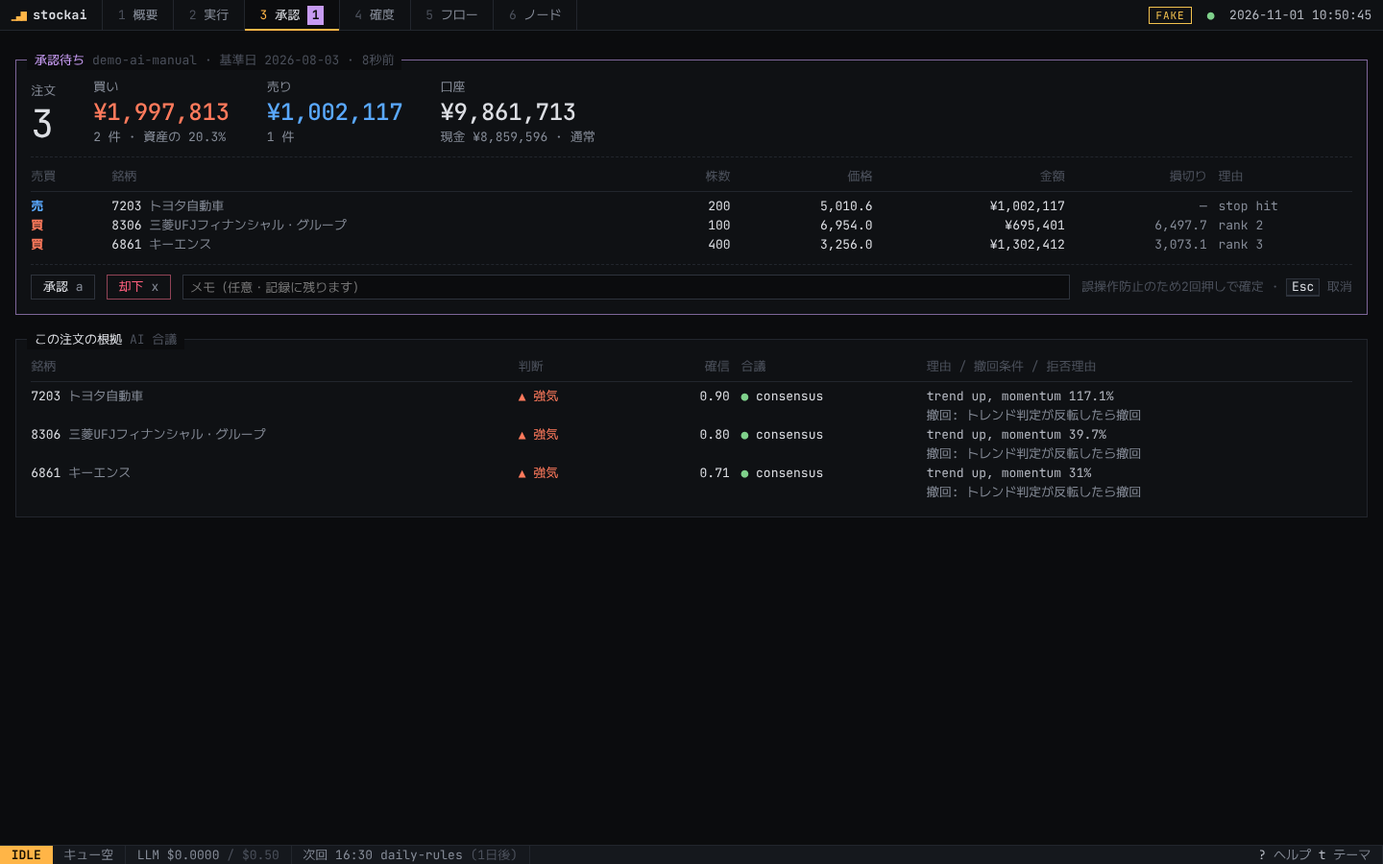
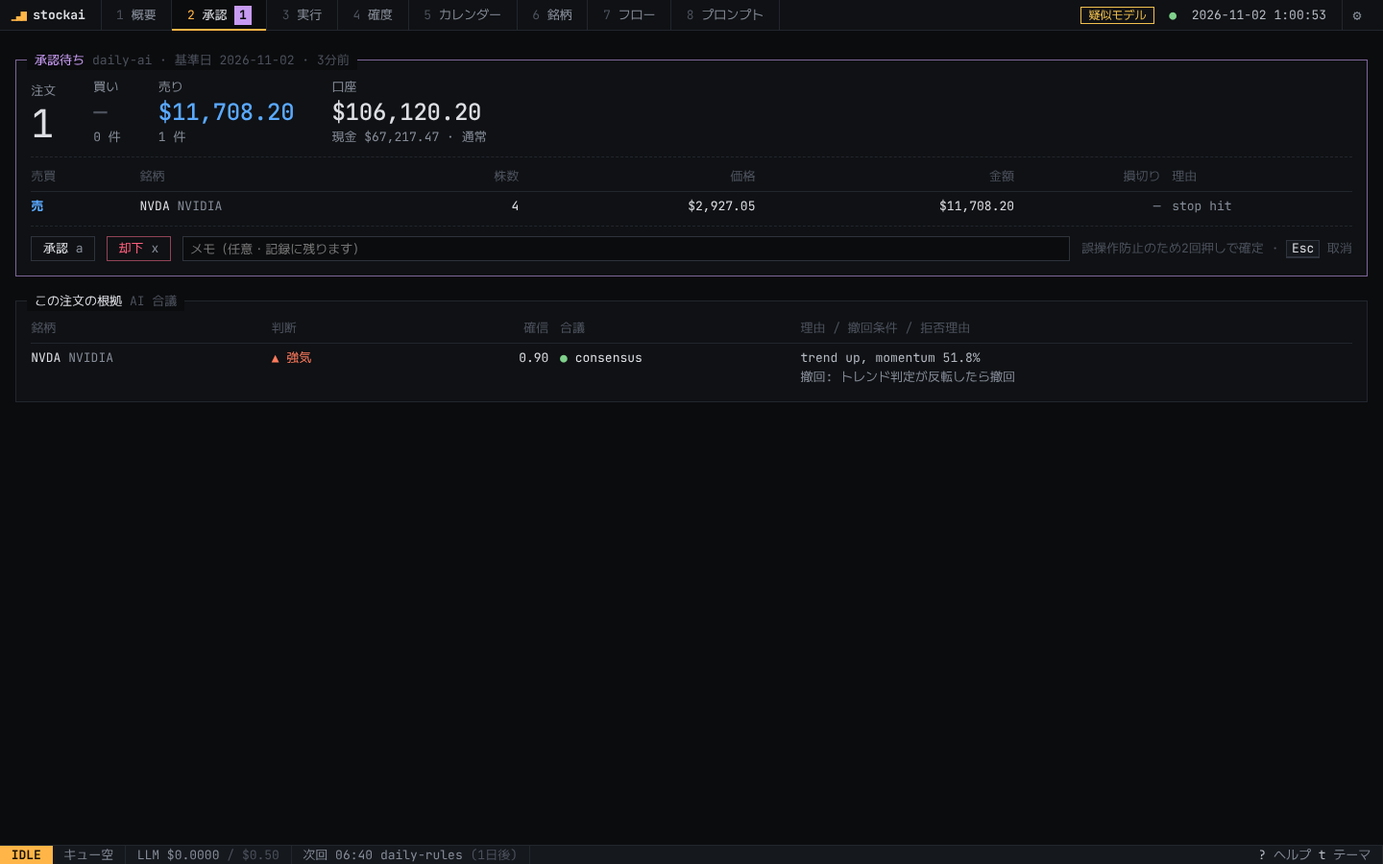
Polish the UI after an unslop audit (fixes a currency bug)
Audited every screen against the unslop skill's list of signs (by
Damir Sokolovsky, @heydamir, CC BY 4.0) and applied its polish mode:
the TUI direction (graphite surfaces, amber accent, monospace type,
status glyphs) stays; only what the audit found changes.

- Bug: proposed orders on the overview and approval screens were shown
  in yen for USD accounts, and share prices had one decimal. The API now
  sends the market currency; prices use cents for USD
- Type: no 700 weights (600 at most, 500 on primary buttons); the
  uppercase, letter-spaced FAKE badge becomes 疑似モデル
- Color: red is kept for failures — watchlist row removal becomes a
  quiet icon button that turns red on hover, "無効にする" is neutral;
  disabled buttons are grey instead of faded amber
- Layout and spacing: the per-prompt scorecard line wraps instead of
  overflowing, the calendar's earnings list truncates long names, the
  watchlist table gets room under its caption
- Details: the gear no longer shows a stray ","; account tags read
  ペーパー / 証券口座
- Motion: only running steps pulse (waiting no longer blinks); unused
  blink animation removed
- README screenshots refreshed for the new tab order

Claude-Session: https://claude.ai/code/session_011x6pz1u6J3MyD5N1GzKC8A

diff --git a/apps/web/src/styles.css b/apps/web/src/styles.css
@@ -105,7 +105,7 @@ a { color: inherit; text-decoration: none; }
 .brand {
   display: flex; align-items: center; gap: 1ch;
   padding: 0 2ch 0 1.5ch;
-  font-weight: 700; letter-spacing: 0.02em;
+  font-weight: 600;
   border-right: 1px solid var(--line);
 }
 .brand-mark { color: var(--accent); letter-spacing: -0.12em; }
@@ -128,10 +128,10 @@ a { color: inherit; text-decoration: none; }
 .tab[aria-current="page"] .key { color: var(--accent); }
 .tab .count {
   min-width: 2ch; padding: 0 0.6ch; text-align: center;
-  background: var(--wait); color: var(--bg); font-weight: 700;
+  background: var(--wait); color: var(--bg); font-weight: 600;
 }
 .topbar-right { margin-left: auto; display: flex; align-items: center; gap: 2ch; padding: 0 1.5ch; color: var(--dim); }
-.badge { padding: 0 1ch; border: 1px solid currentColor; line-height: calc(var(--lh) - 4px); font-size: 11px; letter-spacing: 0.08em; }
+.badge { padding: 0 1ch; border: 1px solid currentColor; line-height: calc(var(--lh) - 4px); font-size: 12px; }
 .badge.fake { color: var(--warn); }
 .badge.live { color: var(--fail); }
 .clock { color: var(--fg-2); }
@@ -147,7 +147,7 @@ a { color: inherit; text-decoration: none; }
   user-select: none;
 }
 .statusline > * { padding: 0 1.5ch; border-right: 1px solid var(--line); }
-.statusline .mode { background: var(--accent); color: var(--accent-ink); font-weight: 700; border: 0; }
+.statusline .mode { background: var(--accent); color: var(--accent-ink); font-weight: 600; border: 0; }
 .statusline .mode.busy { background: var(--info); }
 .statusline .spacer { flex: 1; border: 0; }
 .statusline kbd { color: var(--fg-2); }
@@ -191,7 +191,7 @@ a { color: inherit; text-decoration: none; }
 .up { color: var(--up); }
 .down { color: var(--down); }
 .ok { color: var(--ok); } .cache { color: var(--cache); } .wait { color: var(--wait); } .warn { color: var(--warn); } .fail { color: var(--fail); } .info { color: var(--info); }
-.strong { font-weight: 700; }
+.strong { font-weight: 600; }
 .num { text-align: right; white-space: nowrap; }
 .nowrap { white-space: nowrap; }
 .ellipsis { overflow: hidden; text-overflow: ellipsis; white-space: nowrap; }
@@ -236,7 +236,7 @@ table.t { border-collapse: collapse; width: 100%; }
 .st-pending, .st-skipped, .st-queued { color: var(--faint); }
 .st-failed { color: var(--fail); }
 .st-running { color: var(--info); }
-.st-running .st-g, .st-waiting .st-g { animation: pulse 1.4s ease-in-out infinite; }
+.st-running .st-g { animation: pulse 1.4s ease-in-out infinite; }
 @keyframes pulse { 50% { opacity: 0.25; } }
 @media (prefers-reduced-motion: reduce) { * { animation: none !important; transition: none !important; } }
 
@@ -272,12 +272,16 @@ table.t { border-collapse: collapse; width: 100%; }
 }
 .btn:hover { background: var(--bg-2); border-color: var(--dim); }
 .btn kbd { color: var(--dim); }
-.btn.primary { background: var(--accent); color: var(--accent-ink); border-color: var(--accent); font-weight: 700; }
+.btn.primary { background: var(--accent); color: var(--accent-ink); border-color: var(--accent); font-weight: 500; }
 .btn.primary kbd { color: color-mix(in srgb, var(--accent-ink) 60%, var(--accent)); }
 .btn.primary:hover { filter: brightness(1.08); }
 .btn.danger { color: var(--fail); border-color: color-mix(in srgb, var(--fail) 50%, var(--line)); }
 .btn.danger:hover { background: color-mix(in srgb, var(--fail) 12%, transparent); }
-.btn:disabled { opacity: 0.45; cursor: not-allowed; }
+.btn:disabled, .btn.primary:disabled { background: transparent; color: var(--faint); border-color: var(--line); cursor: not-allowed; filter: none; }
+.btn:disabled kbd { color: var(--faint); }
+/* quiet icon button (row actions): red only when it is about to act */
+.btn.icon { border-color: transparent; color: var(--faint); padding: 0 1ch; }
+.btn.icon:hover { color: var(--fail); border-color: var(--line-2); background: transparent; }
 .btn-row { display: flex; gap: 1.5ch; flex-wrap: wrap; align-items: center; }
 .input {
   height: calc(var(--lh) + 6px); padding: 0 1ch; min-width: 0;
@@ -349,8 +353,6 @@ kbd.cap { display: inline-block; min-width: 2.4ch; padding: 0 0.6ch; text-align:
 .callout { border-left: 2px solid var(--line-2); padding-left: 1.5ch; color: var(--fg-2); }
 .callout.warn { border-left-color: var(--warn); }
 .callout.fail { border-left-color: var(--fail); }
-.blink { animation: blink 1.1s steps(1) infinite; }
-@keyframes blink { 50% { opacity: 0; } }
 pre.json { margin: 0; white-space: pre-wrap; word-break: break-all; color: var(--fg-2); font-size: 12px; }
 
 /* ── node editor ───────────────────────────────────────────────────────── */
@@ -361,8 +363,8 @@ pre.json { margin: 0; white-space: pre-wrap; word-break: break-all; color: var(-
 }
 .ed-toolbar .btn { height: calc(var(--lh) + 4px); padding: 0 1.2ch; }
 .ed-toolbar .input { height: calc(var(--lh) + 4px); }
-.ed-title { font-weight: 700; }
-.ed-name { width: 24ch; font-weight: 700; }
+.ed-title { font-weight: 600; }
+.ed-name { width: 24ch; font-weight: 600; }
 .ed-spacer { flex: 1; }
 .input.bad { border-color: var(--fail); }
 .ed-body-grid { display: grid; grid-template-columns: 30ch 1fr 44ch; min-height: 0; }
@@ -431,7 +433,7 @@ pre.json { margin: 0; white-space: pre-wrap; word-break: break-all; color: var(-
 .ed-insp { padding: 1lh 2ch 2lh; }
 .ed-insp h4 { margin: calc(var(--lh) * 0.9) 0 calc(var(--lh) * 0.3); font-weight: 400; color: var(--faint); border-bottom: 1px solid var(--line); padding-bottom: 2px; }
 .ed-insp-head { display: flex; align-items: center; gap: 1.5ch; margin-bottom: 4px; }
-.ed-id { font-weight: 700; flex: 1; }
+.ed-id { font-weight: 600; flex: 1; }
 .ed-desc { margin-top: 4px; font-size: 12px; line-height: 18px; }
 .ed-io { display: grid; grid-template-columns: 10ch 11ch 1fr; gap: 0 1ch; align-items: baseline; }
 .ed-io-src { min-width: 0; overflow-wrap: anywhere; }
@@ -506,11 +508,11 @@ select.input { padding-right: 0.5ch; }
 .cal-cell.past .cal-date span:first-child { color: var(--faint); }
 .cal-cell.holiday { background: repeating-linear-gradient(135deg, transparent 0 6px, color-mix(in srgb, var(--fail) 7%, transparent) 6px 7px); }
 .cal-cell.today { outline: 1px solid var(--accent); outline-offset: -1px; }
-.cal-cell.today .cal-date span:first-child { color: var(--accent); font-weight: 700; }
+.cal-cell.today .cal-date span:first-child { color: var(--accent); font-weight: 600; }
 .cal-date { display: flex; justify-content: space-between; gap: 1ch; color: var(--fg-2); margin-bottom: 2px; }
 .cal-hol { color: var(--fail); font-size: 11px; white-space: nowrap; overflow: hidden; text-overflow: ellipsis; }
 .cal-earn { display: inline-block; margin: 0 0.5ch 2px 0; padding: 0 0.6ch; border: 1px solid var(--line-2); color: var(--fg-2); }
-.cal-earn.held { border-color: var(--accent); color: var(--accent); font-weight: 700; }
+.cal-earn.held { border-color: var(--accent); color: var(--accent); font-weight: 600; }
 .cal-sched { color: var(--dim); white-space: nowrap; overflow: hidden; text-overflow: ellipsis; }
 .cal-sched.skipped { color: var(--faint); text-decoration: line-through; }
 .cal-run { white-space: nowrap; overflow: hidden; text-overflow: ellipsis; cursor: pointer; }
@@ -527,3 +529,7 @@ select.input { padding-right: 0.5ch; }
 .subtab[aria-selected="true"] { color: var(--accent); background: var(--bg); }
 .watchlist-layout { display: grid; grid-template-columns: minmax(0, 1fr) minmax(34ch, 44ch); gap: 2ch; align-items: start; }
 @media (max-width: 1200px) { .watchlist-layout { grid-template-columns: 1fr; } }
+
+/* ── polish ─────────────────────────────────────────────────── */
+.t.watchlist { margin-top: calc(var(--lh) * 0.75); }
+.wrap-meta { white-space: normal; }

diff --git a/apps/web/src/views/RunDetail.tsx b/apps/web/src/views/RunDetail.tsx
@@ -3,7 +3,7 @@ import type { Judgment, Proposal } from "@stockai/core";
 import type { NodeView, RunDetail as Detail } from "../../shared/types.ts";
 import { Dag } from "../components/Dag.tsx";
 import { Empty, Pane, PortType, Stance, Status } from "../components/ui.tsx";
-import { dateTime, duration, metricsText, MODE_JA, money, num, outputSummary, pct, runDuration } from "../format.ts";
+import { dateTime, duration, metricsText, MODE_JA, money, num, outputSummary, pct, price, runDuration } from "../format.ts";
 import { navigate } from "../router.ts";
 import { ScorecardTable } from "./Scorecard.tsx";
 
@@ -38,7 +38,7 @@ export function JudgmentsTable({ items, names, compact = false }: { items: Judgm
   );
 }
 
-export function OrdersTable({ items, names }: { items: Proposal[]; names: Record<string, string> }) {
+export function OrdersTable({ items, names, currency }: { items: Proposal[]; names: Record<string, string>; currency?: string | null }) {
   if (!items.length) return <Empty>注文なし</Empty>;
   return (
     <table className="t">
@@ -49,9 +49,9 @@ export function OrdersTable({ items, names }: { items: Proposal[]; names: Record
             <td className={p.action === "buy" ? "up strong" : "down strong"}>{p.action === "buy" ? "買" : "売"}</td>
             <td className="nowrap">{p.ticker} <span className="dim">{names[p.ticker] ?? ""}</span></td>
             <td className="num">{p.shares.toLocaleString()}</td>
-            <td className="num">{num(p.price, 1)}</td>
-            <td className="num">{money(p.shares * p.price)}</td>
-            <td className="num dim">{p.stop ? num(p.stop, 1) : "—"}</td>
+            <td className="num">{price(p.price, currency)}</td>
+            <td className="num">{money(p.shares * p.price, currency)}</td>
+            <td className="num dim">{p.stop ? price(p.stop, currency) : "—"}</td>
             <td className="dim">{p.reason}</td>
           </tr>
         ))}
@@ -121,17 +121,17 @@ export function RunDetailView({ d }: { d: Detail }) {
           ))}
         </div>
         {tab === "judgments" && h.judgments && <JudgmentsTable items={h.judgments.items} names={d.names} />}
-        {tab === "orders" && h.proposals && <OrdersTable items={h.proposals.items} names={d.names} />}
+        {tab === "orders" && h.proposals && <OrdersTable items={h.proposals.items} names={d.names} currency={d.currency} />}
         {tab === "fills" && h.fills && (h.fills.length ? (
           <table className="t">
             <thead><tr><th>売買</th><th>銘柄</th><th className="num">株数</th><th className="num">約定値</th><th className="num">手数料</th><th>理由</th></tr></thead>
-            <tbody>{h.fills.map((f, i) => <tr key={i}><td className={f.side === "buy" ? "up" : "down"}>{f.side === "buy" ? "買" : "売"}</td><td>{f.ticker} <span className="dim">{d.names[f.ticker] ?? ""}</span></td><td className="num">{f.shares}</td><td className="num">{num(f.price, 1)}</td><td className="num">{money(f.fee)}</td><td className="dim">{f.reason}</td></tr>)}</tbody>
+            <tbody>{h.fills.map((f, i) => <tr key={i}><td className={f.side === "buy" ? "up" : "down"}>{f.side === "buy" ? "買" : "売"}</td><td>{f.ticker} <span className="dim">{d.names[f.ticker] ?? ""}</span></td><td className="num">{f.shares}</td><td className="num">{price(f.price, d.currency)}</td><td className="num">{money(f.fee, d.currency)}</td><td className="dim">{f.reason}</td></tr>)}</tbody>
           </table>
         ) : <Empty>約定なし</Empty>)}
         {tab === "broker" && h.orders && (
           <table className="t">
             <thead><tr><th>状態</th><th>売買</th><th>銘柄</th><th className="num">株数</th><th className="num">指値</th><th>ref / メッセージ</th></tr></thead>
-            <tbody>{h.orders.map((o) => <tr key={o.ref}><td className={o.status === "submitted" ? "ok" : o.status === "blocked" || o.status === "error" ? "fail" : "dim"}>{o.status}</td><td className={o.side === "buy" ? "up" : "down"}>{o.side === "buy" ? "買" : "売"}</td><td>{o.ticker}</td><td className="num">{o.shares}</td><td className="num">{num(o.limitPrice, 1)}</td><td className="dim wrap">{o.ref} {o.message}</td></tr>)}</tbody>
+            <tbody>{h.orders.map((o) => <tr key={o.ref}><td className={o.status === "submitted" ? "ok" : o.status === "blocked" || o.status === "error" ? "fail" : "dim"}>{o.status}</td><td className={o.side === "buy" ? "up" : "down"}>{o.side === "buy" ? "買" : "売"}</td><td>{o.ticker}</td><td className="num">{o.shares}</td><td className="num">{price(o.limitPrice, d.currency)}</td><td className="dim wrap">{o.ref} {o.message}</td></tr>)}</tbody>
           </table>
         )}
         {tab === "account" && h.account && (
@@ -146,7 +146,7 @@ export function RunDetailView({ d }: { d: Detail }) {
             {Object.keys(h.account.positions).length === 0 ? <Empty>保有なし</Empty> : (
               <table className="t">
                 <thead><tr><th>銘柄</th><th className="num">株数</th><th className="num">取得単価</th><th className="num">高値</th><th>取得日</th><th className="num">保有日数</th></tr></thead>
-                <tbody>{Object.values(h.account.positions).map((p) => <tr key={p.ticker}><td>{p.ticker} <span className="dim">{d.names[p.ticker] ?? ""}</span></td><td className="num">{p.shares}</td><td className="num">{num(p.entryPrice, 1)}</td><td className="num">{num(p.highestClose, 1)}</td><td>{p.entryDate}</td><td className="num">{p.daysHeld}</td></tr>)}</tbody>
+                <tbody>{Object.values(h.account.positions).map((p) => <tr key={p.ticker}><td>{p.ticker} <span className="dim">{d.names[p.ticker] ?? ""}</span></td><td className="num">{p.shares}</td><td className="num">{price(p.entryPrice, d.currency)}</td><td className="num">{price(p.highestClose, d.currency)}</td><td>{p.entryDate}</td><td className="num">{p.daysHeld}</td></tr>)}</tbody>
               </table>
             )}
           </div>

diff --git a/apps/web/src/views/Approvals.tsx b/apps/web/src/views/Approvals.tsx
@@ -152,6 +152,7 @@ export function Approvals({ overview, param, toast }: { overview: Overview | und
   const buyValue = buys.reduce((s, p) => s + p.shares * p.price, 0);
   const sellValue = sells.reduce((s, p) => s + p.shares * p.price, 0);
   const account = detail.data?.highlights.account;
+  const cur = account?.currency ?? overview?.currency ?? null;
   const names = detail.data?.names ?? {};
   const tickers = new Set(ps.map((p) => p.ticker));
   const relevant = detail.data?.highlights.judgments?.items.filter((j) => tickers.has(j.ticker)) ?? [];
@@ -163,12 +164,12 @@ export function Approvals({ overview, param, toast }: { overview: Overview | und
       <Pane title="承認待ち" aux={`${sel.run.workflow} · 基準日 ${sel.run.asOf} · ${ago(sel.run.createdAt)}`} className="alert">
         <div style={{ display: "flex", gap: "5ch", flexWrap: "wrap", alignItems: "end" }}>
           <div><div className="label">注文</div><div className="big-count">{ps.length}</div></div>
-          <div><div className="label">買い</div><div className={`h1 ${buyValue ? "up" : "faint"}`}>{moneyOrDash(buyValue)}</div><div className="dim">{buys.length} 件{account ? ` · 資産の ${pct(buyValue / account.equity, 1)}` : ""}</div></div>
-          <div><div className="label">売り</div><div className={`h1 ${sellValue ? "down" : "faint"}`}>{moneyOrDash(sellValue)}</div><div className="dim">{sells.length} 件</div></div>
+          <div><div className="label">買い</div><div className={`h1 ${buyValue ? "up" : "faint"}`}>{moneyOrDash(buyValue, cur)}</div><div className="dim">{buys.length} 件{account && buyValue ? ` · 資産の ${pct(buyValue / account.equity, 1)}` : ""}</div></div>
+          <div><div className="label">売り</div><div className={`h1 ${sellValue ? "down" : "faint"}`}>{moneyOrDash(sellValue, cur)}</div><div className="dim">{sells.length} 件</div></div>
           {account && <div><div className="label">口座</div><div className="h1">{money(account.equity, account.currency)}</div><div className="dim">現金 {money(account.cash, account.currency)} · {MODE_JA[account.mode] ?? account.mode}</div></div>}
         </div>
         <hr className="rule" />
-        <OrdersTable items={ps} names={names} />
+        <OrdersTable items={ps} names={names} currency={cur} />
         <hr className="rule" />
         {decisionRow}
       </Pane>

diff --git a/apps/web/src/views/Overview.tsx b/apps/web/src/views/Overview.tsx
@@ -30,8 +30,8 @@ export function Overview({ data }: { data: OverviewData | undefined }) {
                       <td><Status s="waiting" label={false} />{run.workflow}</td>
                       <td>{run.asOf}</td>
                       <td className="num">{gate.proposals.length}</td>
-                      <td className="num up">{moneyOrDash(buy.reduce((s, p) => s + p.shares * p.price, 0))}</td>
-                      <td className="num down">{moneyOrDash(sell.reduce((s, p) => s + p.shares * p.price, 0))}</td>
+                      <td className="num up">{moneyOrDash(buy.reduce((s, p) => s + p.shares * p.price, 0), data.currency)}</td>
+                      <td className="num down">{moneyOrDash(sell.reduce((s, p) => s + p.shares * p.price, 0), data.currency)}</td>
                       <td className="dim">{ago(run.createdAt, now)}</td>
                     </tr>
                   );
@@ -97,7 +97,7 @@ export function Overview({ data }: { data: OverviewData | undefined }) {
                 <div key={e.account}>
                   {i > 0 && <hr className="rule" />}
                   <div className="nowrap">
-                    <span className="fg2">{e.account}</span> <span className="tag">{e.kind === "paper" ? "疑似" : "IBKR"}</span>
+                    <span className="fg2">{e.account}</span> <span className="tag">{e.kind === "paper" ? "ペーパー" : "証券口座"}</span>
                     <span className="faint"> · {e.points.length} 日</span>
                   </div>
                   <div style={{ display: "flex", alignItems: "end", justifyContent: "space-between", gap: "2ch" }}>

diff --git a/apps/web/src/views/Workflows.tsx b/apps/web/src/views/Workflows.tsx
@@ -148,7 +148,7 @@ export function Workflows({ param, toast }: { param: string | null; toast: (m: s
               <button className="btn primary" onClick={() => void run()} disabled={sel.problems.length > 0 || sel.disabled !== null}>{asOf ? `${asOf} で実行` : "今日の分を実行"} <kbd>r</kbd></button>
               <input className="input" type="date" value={asOf} onChange={(e) => setAsOf(e.target.value)} title="過去日付で再生（空欄 = 今日）" />
               {asOf && <button className="btn" onClick={() => setAsOf("")}>今日に戻す</button>}
-              <button className={`btn ${sel.disabled ? "" : "danger"}`} onClick={() => void toggle()}>{sel.disabled ? "▶ 有効にする" : "⏸ 無効にする"} <kbd>d</kbd></button>
+              <button className="btn" onClick={() => void toggle()}>{sel.disabled ? "▶ 有効にする" : "⏸ 無効にする"} <kbd>d</kbd></button>
               {sel.lastRun && <button className="btn" onClick={() => navigate("runs", sel.lastRun!.runId)}>最終実行を見る <Status s={sel.lastRun.status} label={false} /></button>}
               <span className="faint">実行はキューで1つずつ処理されます</span>
             </div>

diff --git a/apps/web/src/App.tsx b/apps/web/src/App.tsx
@@ -86,10 +86,10 @@ function Shell({ connected, lastEvent }: { connected: boolean; lastEvent: string
           ))}
         </nav>
         <div className="topbar-right">
-          {data?.fake && <span className="badge fake" title="疑似モデル (--fake)。API キー不要・成績に意味はありません">FAKE</span>}
+          {data?.fake && <span className="badge fake" title="疑似モデル（--fake）。API キー不要・成績に意味はありません">疑似モデル</span>}
           <span className={connected ? "ok" : "fail"} title={connected ? "サーバーと接続中" : "切断（再接続中）"}>{connected ? "●" : "○"}</span>
           <span className="clock">{now.toLocaleDateString("sv-SE")} {now.toLocaleTimeString("ja-JP")}</span>
-          <a className="tab gear" href="#/settings" title="設定（API キー・通知・バックアップ） ," aria-current={route.view === "settings" ? "page" : undefined}>⚙<span className="key">,</span></a>
+          <a className="tab gear" href="#/settings" title="設定（API キー・通知・バックアップ） ," aria-current={route.view === "settings" ? "page" : undefined}>⚙</a>
         </div>
       </header>
 

diff --git a/apps/web/src/views/SettingsExtra.tsx b/apps/web/src/views/SettingsExtra.tsx
@@ -102,7 +102,7 @@ export function WatchlistPane({ toast }: { toast: Toast }) {
               <td><input className="input" value={r.name} onChange={(e) => set(r.key, { name: e.target.value })} aria-label={`${r.ticker} name`} /></td>
               <td><input className="input" value={r.aliases} onChange={(e) => set(r.key, { aliases: e.target.value })} aria-label={`${r.ticker} aliases`} /></td>
               <td><input className="input" list="sectors" value={r.sector} onChange={(e) => set(r.key, { sector: e.target.value })} aria-label={`${r.ticker} sector`} /></td>
-              <td><button className="btn danger" type="button" title="削除" onClick={() => setRows((rs) => rs.filter((x) => x.key !== r.key))}>✕</button></td>
+              <td><button className="btn icon" type="button" title="この銘柄を外す" aria-label={`${r.ticker} を外す`} onClick={() => setRows((rs) => rs.filter((x) => x.key !== r.key))}>✕</button></td>
             </tr>
           ))}
         </tbody>

diff --git a/apps/web/src/views/Scorecard.tsx b/apps/web/src/views/Scorecard.tsx
@@ -70,10 +70,10 @@ function LabelPane({ k }: { k: LabelCard }) {
             <dt>プロンプト別</dt>
             <dd>
               {(k.byPrompt ?? []).map((b) => (
-                <div key={b.prompt} className="nowrap">
+                <div key={b.prompt} className="wrap-meta">
                   <a className="accent" style={{ display: "inline-block", minWidth: "26ch" }} href={b.prompt === "—" ? undefined : `#/prompts/judge/${b.prompt.split("+")[0]}`}>{b.prompt === "—" ? "（記録なし）" : b.prompt}</a>
                   <Meter value={b.hitRateEff ?? 0} width={16} tone={(b.hitRateEff ?? 0) > 0.5 ? "ok" : ""} mark={0.5} /> {pct(b.hitRateEff)}
-                  <span className="faint"> 下限 {pct(b.wilsonLow)} · 実効 {b.nEff} · {b.first}〜{b.last}</span>
+                  <div className="faint">下限 {pct(b.wilsonLow)} · 実効 {b.nEff} · {b.first}〜{b.last}</div>
                 </div>
               ))}
             </dd>

diff --git a/apps/web/src/views/Calendar.tsx b/apps/web/src/views/Calendar.tsx
@@ -108,7 +108,7 @@ export function Calendar() {
                   <td className="nowrap">{e.date.slice(5).replace("-", "/")}</td>
                   <td className={`num nowrap ${e.daysAway <= 3 ? "warn" : "dim"}`}>{e.daysAway === 0 ? "今日" : `${e.daysAway}日後`}</td>
                   <td className="nowrap"><b className={e.held ? "accent" : ""}>{e.ticker}</b>{TIME_MARK(e.time) && <span className="cal-time">{TIME_MARK(e.time)}</span>}</td>
-                  <td className="dim ellipsis">{e.name}{e.held ? "（保有中）" : ""}</td>
+                  <td className="dim ellipsis" style={{ maxWidth: "16ch" }} title={e.held ? `${e.name}（保有中）` : e.name}>{e.name}</td>
                 </tr>
               ))}
             </tbody>

diff --git a/apps/web/src/format.ts b/apps/web/src/format.ts
@@ -18,6 +18,13 @@ export function money(x: number | null | undefined, currency?: string | null): s
   return `¥${Math.round(x).toLocaleString("ja-JP")}`;
 }
 
+/** A share price: cents for USD; yen with a decimal only when there is one. */
+export function price(x: number | null | undefined, currency?: string | null): string {
+  if (!isNum(x)) return "—";
+  if (currency === "USD") return `$${x.toLocaleString("en-US", { minimumFractionDigits: 2, maximumFractionDigits: 2 })}`;
+  return `¥${x.toLocaleString("ja-JP", { maximumFractionDigits: 1 })}`;
+}
+
 /** Amount, or a dash when there is nothing (keeps tables quiet). */
 export const moneyOrDash = (x: number, currency?: string | null): string => (x ? money(x, currency) : "—");
 

diff --git a/apps/web/server/views.ts b/apps/web/server/views.ts
@@ -152,7 +152,7 @@ export function runDetail(s: Services, registry: NodeRegistry, run: RunRow): Run
     }
   }
   const names = Object.fromEntries(Object.keys(s.config.watchlist).map((t) => [t, s.watchlist.name(t)]));
-  return { run: summary(run), description: spec.description, nodes, edges: graph.edges, highlights: h, waiting, names };
+  return { run: summary(run), currency: s.config.market.currency, description: spec.description, nodes, edges: graph.edges, highlights: h, waiting, names };
 }
 
 /** Scorecard with the latest as-of date among recent runs (replays of old dates do not win). */

diff --git a/apps/web/shared/types.ts b/apps/web/shared/types.ts
@@ -63,6 +63,7 @@ export interface WaitingGate {
 
 export interface RunDetail {
   run: RunSummary;
+  currency: "JPY" | "USD";
   description: string;
   nodes: NodeView[];
   edges: EdgeView[];
@@ -103,6 +104,8 @@ export interface EquitySeries {
 export interface Overview {
   now: string;
   fake: boolean;
+  /** Market currency (for amounts that carry no account, like proposed orders). */
+  currency: "JPY" | "USD";
   pending: Array<{ run: RunSummary; gates: WaitingGate[] }>;
   workflows: WorkflowInfo[];
   recent: RunSummary[];
